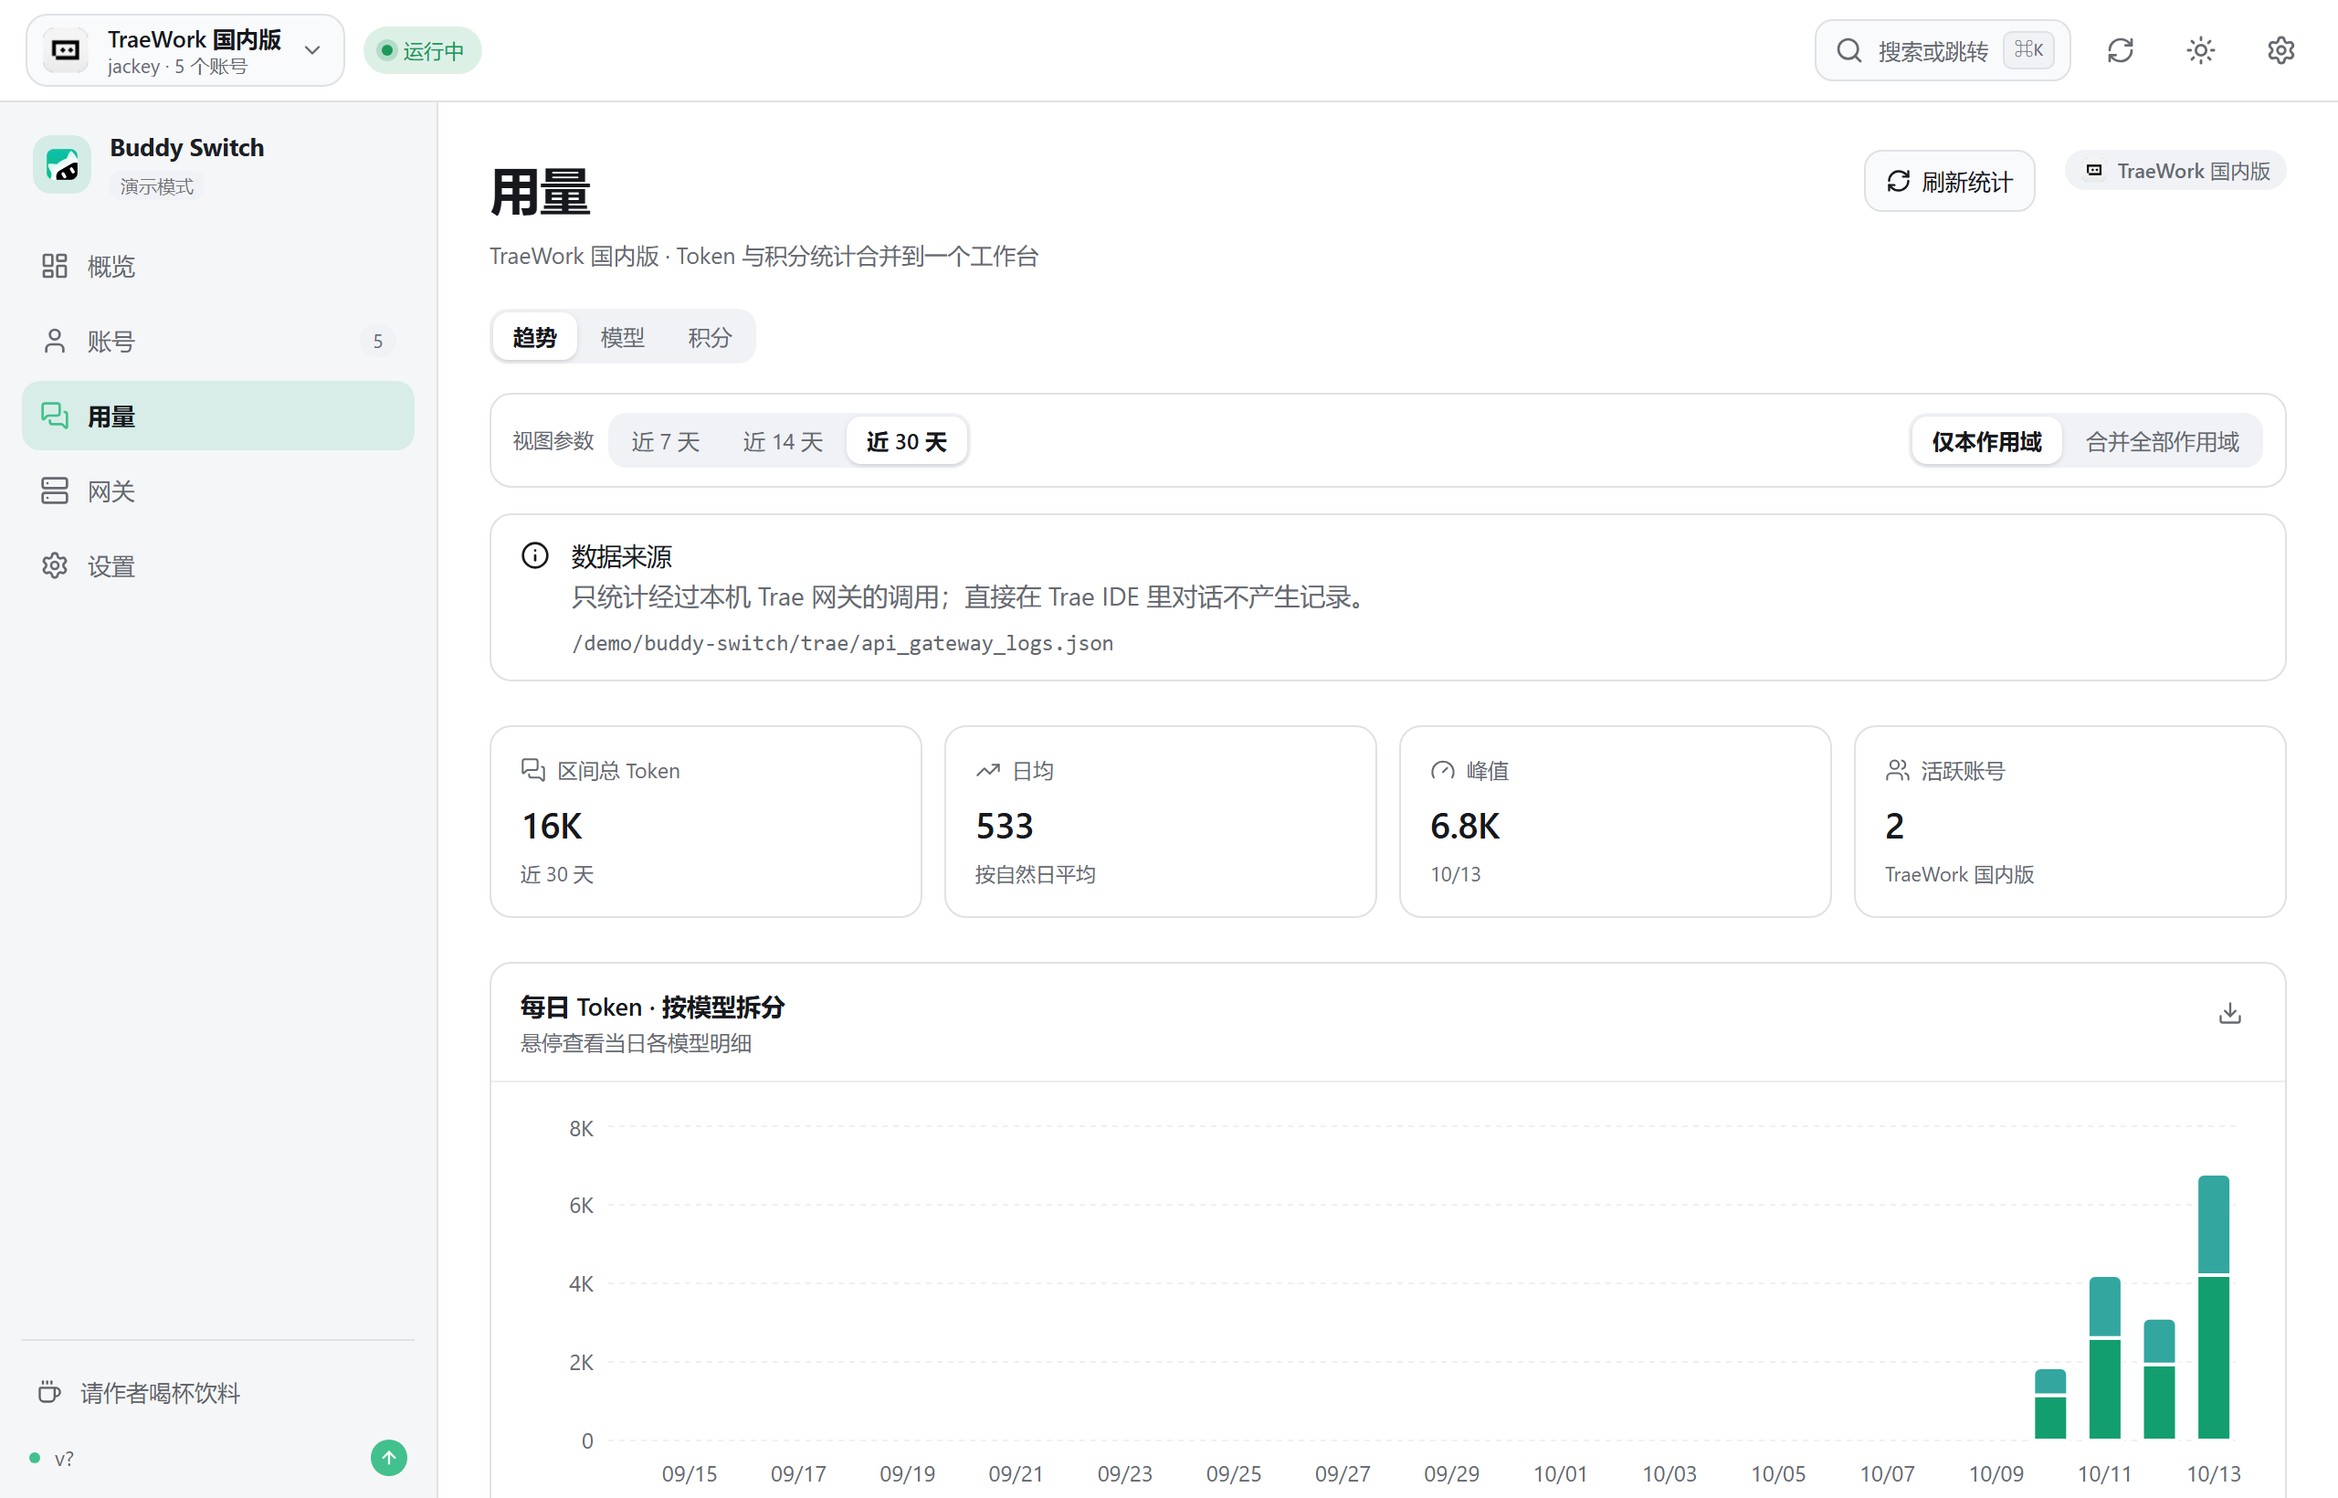
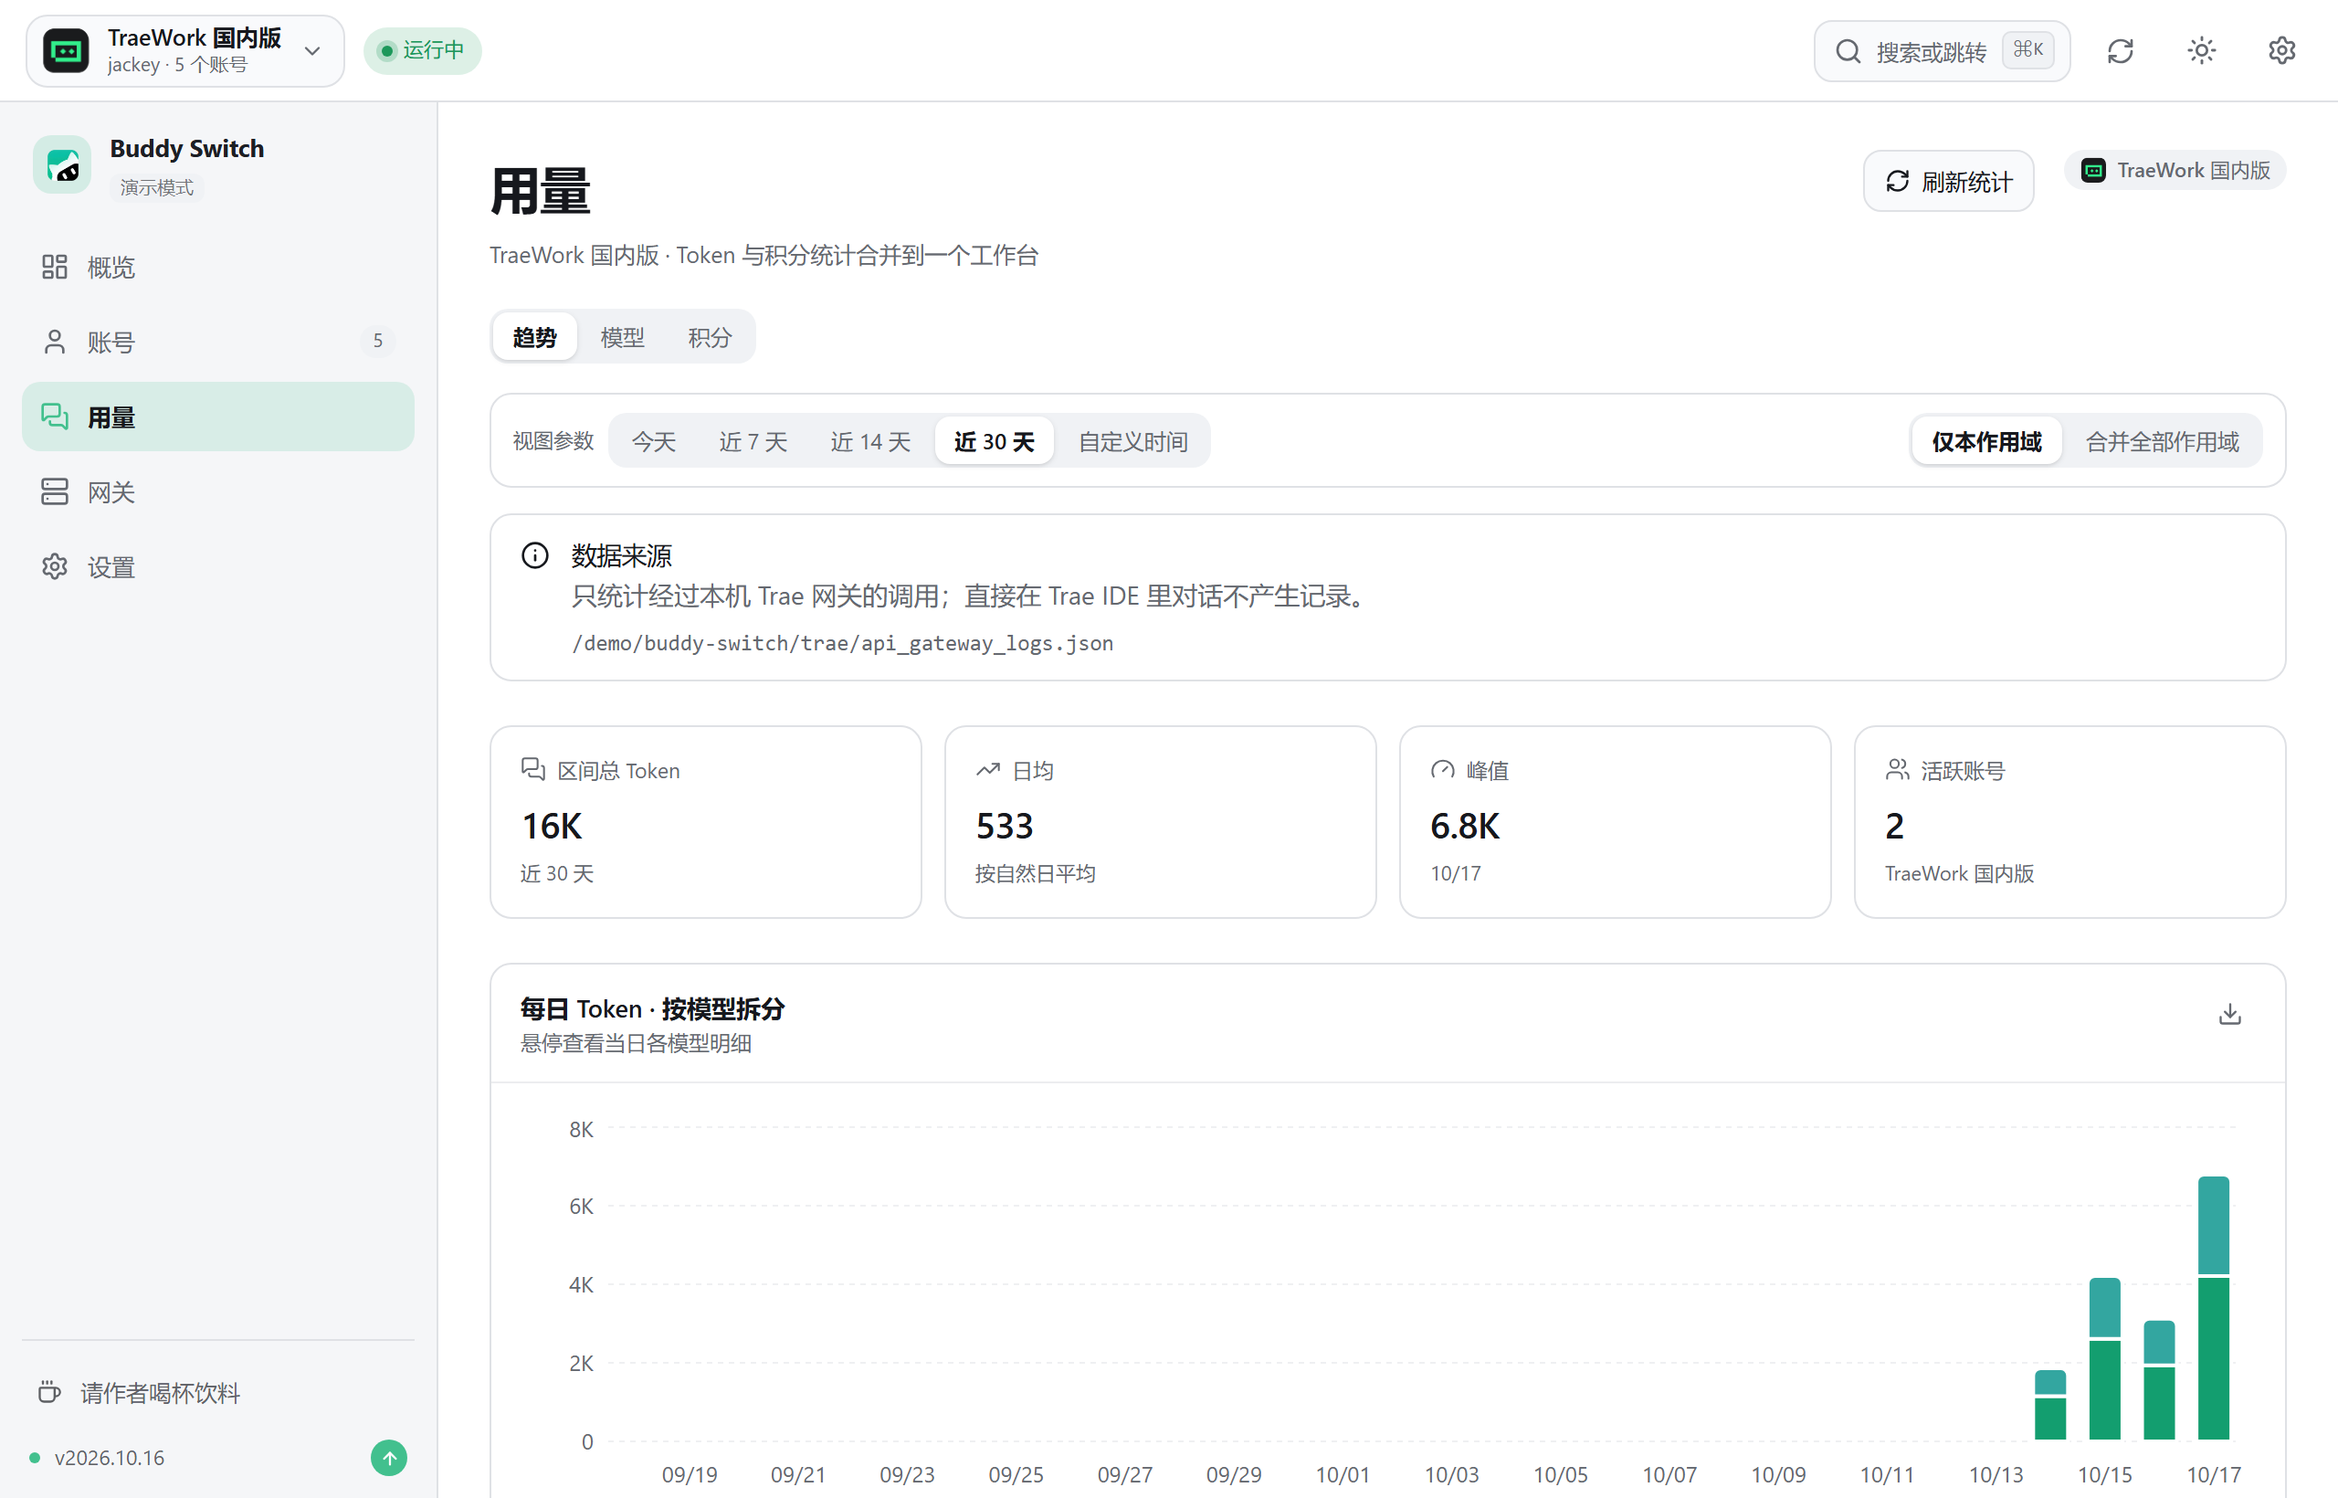
docs(readme): README 截图流水线脚本 + 全站截图重拍（含 Qoder 六张）
新增 `scripts/gen-readme-shots.mjs`：把「路由 → 文件名 → 视口 → 缩放」全部写死，
重跑一次就是一整套同规格的图。此前 20+ 张图靠手点，改版后必然漏拍、且两次截图之间
窗口大小/滚动位置不一致 —— 读者看到的是「同一页两种排版」。

配套改动：
- `src/lib/screenshot-demo.ts` / `use-scope-status.ts` / `App.tsx`：为脚本提供
  稳定的路由与视口入口（截图模式下不依赖真实登录态与轮询）。
- `docs/images/*`：明/暗两套按新规格重拍，并补齐 Qoder 的账号 / 网关 / 概览六张。
- `.gitignore`：忽略脚本的一次性 playwright 安装目录与取景用探针图
  （`.tmp-pcli/` 500+ 文件、`docs/images/.probe/`），不让中间产物进仓库。

diff --git a/src/lib/use-scope-status.ts b/src/lib/use-scope-status.ts
@@ -16,6 +16,12 @@
  *   安装 / 运行态取自 `trae-variant-status` 的同一次探测（`loadTraeVariantStatuses`，
  *   即侧栏运行点的数据源），「当前登录」与「账号数」在其上各取一次。
  *   快照走 `useCachedResource` + **本 hook 自己的 60 秒轮询**（见 [`TRAE_SCOPE_STATUS_POLL_MS`]）。
+ * - **Qoder 侧**（`qoder-cn` / `qoder-global`）：同样是一次聚合快照 ——
+ *   `get_qoder_accounts`（账号数 / 当前登录 / 需处理）+ `qoder_program_status`
+ *   （两处程序位的安装与运行态），**与 Trae 侧同一节奏**。
+ *   ⚠ 2026-10-17 之前 Qoder 两条恒为 `UNKNOWN_STATUS`（当时确实没有数据源）——
+ *   后果是顶栏写着「未检测到 · 0 个账号」，而账号页里明明躺着两条账号。
+ *   「不知道」与「0」必须分开，所以要么取到真数，要么保持未知，不能编。
  *
  * ## 为什么 Trae 侧要在 WorkBuddy 作用域下也探测
  *
@@ -131,8 +137,7 @@ function regionLoginName(
   return null;
 }
 
-async function loadTraeScopeSnapshot(): Promise<TraeScopeSnapshot> {
-  const statuses = await loadTraeVariantStatuses();
+async function loadTraeScopeSnapshot(): Promise<TraeScopeSnapshot> {  const statuses = await loadTraeVariantStatuses();
   // 三次请求互不依赖：登录态按程序位、账号数按区域（每区域恰一个合并版程序位，
   // issue #28 收敛 ⇒ 国内取 `trae_merged`、国际取 `global_trae_merged`）。
   const [logins, cnAccounts, globalAccounts] = await Promise.all([
@@ -157,6 +162,63 @@ async function loadTraeScopeSnapshot(): Promise<TraeScopeSnapshot> {
     cn: build("cn", cnAccounts?.total ?? 0),
     global: build("global", globalAccounts?.total ?? 0),
   };
+}
+
+/** Qoder 聚合快照的缓存键（与 Trae 侧分开：两者取数路径完全不同）。 */
+const QODER_SCOPE_STATUS_KEY = "qoder:scope-status";
+
+/**
+ * Qoder 快照的新鲜窗口：**50 秒**，与 Trae 侧同值。
+ *
+ * 轮询**共用** [`TRAE_SCOPE_STATUS_POLL_MS`]（同一个 60 秒定时器里两条都 revalidate）——
+ * 两条快照同一档期，分开起定时器只会让同一秒打两轮请求。
+ */
+const QODER_SCOPE_STATUS_FRESH_MS = TRAE_SCOPE_STATUS_FRESH_MS;
+
+interface QoderScopeSnapshot {
+  cn: ScopeStatus;
+  global: ScopeStatus;
+}
+
+/**
+ * Qoder 两个区域的状态快照。
+ *
+ * 两个事实源在**同一次**快照里取齐：
+ * - `get_qoder_accounts(scope)` → 账号数 / 当前登录 uid / 是否有可用凭据；
+ * - `qoder_program_status(scope)` → 桌面版与 CLI 两处程序位的 `state` 与 `running`。
+ *
+ * ⚠ **安装判据用 `state`，不用「有账号」**：Qoder 允许先粘 PAT 再装客户端
+ * （`state = missing` 而账号库非空）—— 那时说「已安装」是假的。
+ * `empty` / `ready` 都表示「客户端在、只是登录态空/有」，都算装过。
+ */
+async function loadQoderScopeSnapshot(): Promise<QoderScopeSnapshot> {
+  const build = async (scope: Scope): Promise<ScopeStatus> => {
+    const [view, programs] = await Promise.all([
+      api.getQoderAccounts(scope).catch(() => null),
+      api.qoderProgramStatus(scope).catch(() => null),
+    ]);
+    const accounts = view?.accounts ?? [];
+    const list = programs?.programs ?? [];
+    const currentUid = list.find((program) => program.currentUid)?.currentUid ?? null;
+    const logged = currentUid ? accounts.find((account) => account.uid === currentUid) : undefined;
+    const now = Date.now();
+    return {
+      installed: list.some(
+        (program) => program.running || program.state === "ready" || program.state === "empty",
+      ),
+      running: list.some((program) => program.running),
+      loggedInName: logged ? (logged.nickname ?? logged.name) : null,
+      accountCount: accounts.length,
+      // 与 WorkBuddy 侧同一口径（过期 or 无可用凭据 ⇒ 需处理）；Qoder 没有「需重登」概念。
+      attentionCount: accounts.filter(
+        (account) =>
+          !account.hasCredential ||
+          (account.expiresAt != null && account.expiresAt <= now),
+      ).length,
+    };
+  };
+  const [cn, global] = await Promise.all([build("qoder-cn"), build("qoder-global")]);
+  return { cn, global };
 }
 
 /** WorkBuddy 一个区域的切片 → 状态（登录名优先昵称、其次邮箱）。 */
@@ -201,15 +263,19 @@ function workbuddyStatus(status: AppStatus | null, accounts: AccountMeta[]): Sco
 export function useScopeStatus(): {
   statuses: ScopeStatusMap;
   /**
-   * 强制刷新 Trae 侧快照；**返回刷新后的错误文案**（`null` = 成功）。
+   * 强制刷新**非 WorkBuddy** 作用域的聚合快照（Trae / Qoder）；**返回错误文案**（`null` = 成功）。
+   *
+   * WorkBuddy 的刷新不在这里：它走账号 store 自己的命令（见 `Layout.refreshCurrentScope`）。
+   * ⚠ 两个产品线的快照**来自不同键**，所以刷新也必须按产品分派 —— 用同一个函数刷另一条，
+   * 只会让顶栏那个「已刷新」toast 说谎。
    *
    * ⚠ 为什么返回值不是 `void`：`useCachedResource.refresh` 吞掉异常（失败写进
    * 快照的 `error`，见 `stores/resources.ts` 的 `load`）⇒ 顶栏刷新若只看
-   * 「await 有没有抛」，Trae 的失败会被当成成功去报「已刷新」。这里在刷新结束
+   * 「await 有没有抛」，Trae / Qoder 的失败会被当成成功去报「已刷新」。这里在刷新结束
    * 后直接读 store 的**最新** entry（不受 React 渲染时序影响），把结果转成
    * 显式值给调用方。
    */
-  refreshTrae: () => Promise<string | null>;
+  refreshProduct: (product: "trae" | "qoder") => Promise<string | null>;
 } {
   const cnStatus = useAccountsStore((s) => s.status);
   const cnAccounts = useAccountsStore((s) => s.accounts);
@@ -222,15 +288,26 @@ export function useScopeStatus(): {
     { freshMs: TRAE_SCOPE_STATUS_FRESH_MS },
   );
 
+  const qoder = useCachedResource<QoderScopeSnapshot>(
+    QODER_SCOPE_STATUS_KEY,
+    loadQoderScopeSnapshot,
+    { freshMs: QODER_SCOPE_STATUS_FRESH_MS },
+  );
+
   const visible = useDocumentVisible();
   // 取出函数本体再进依赖：`trae` 对象每次渲染都是新的，直接用它会每帧重建定时器。
   const revalidateTrae = trae.revalidate;
+  const revalidateQoder = qoder.revalidate;
 
   useEffect(() => {
     if (!visible) return;
-    const timer = window.setInterval(() => void revalidateTrae(), TRAE_SCOPE_STATUS_POLL_MS);
+    const timer = window.setInterval(() => {
+      void revalidateTrae();
+      // 两条快照同一个周期触发：分开起定时器只会在同一秒打两轮请求。
+      void revalidateQoder();
+    }, TRAE_SCOPE_STATUS_POLL_MS);
     return () => window.clearInterval(timer);
-  }, [visible, revalidateTrae]);
+  }, [visible, revalidateTrae, revalidateQoder]);
 
   const statuses = useMemo<ScopeStatusMap>(
     () => ({
@@ -238,21 +315,22 @@ export function useScopeStatus(): {
       "wb-global": workbuddyStatus(globalStatus, globalAccounts),
       "trae-cn": trae.data?.cn ?? UNKNOWN_STATUS,
       "trae-global": trae.data?.global ?? UNKNOWN_STATUS,
-      /* ⚠ Qoder 侧**尚无运行状态数据源**（客户端探测与账号库计数都还没接）。
-         这里给 `UNKNOWN_STATUS` 而不是编一个「未运行」—— 后者会被读成
-         「装了但没开」，而事实是我们还不知道。 */
-      "qoder-cn": UNKNOWN_STATUS,
-      "qoder-global": UNKNOWN_STATUS,
+      "qoder-cn": qoder.data?.cn ?? UNKNOWN_STATUS,
+      "qoder-global": qoder.data?.global ?? UNKNOWN_STATUS,
     }),
-    [cnStatus, cnAccounts, globalStatus, globalAccounts, trae.data],
+    [cnStatus, cnAccounts, globalStatus, globalAccounts, trae.data, qoder.data],
   );
 
   // 见返回类型处的说明：refresh 不抛错 ⇒ 刷新完成后从 store 读最新 entry 判成败。
-  const refreshTrae = useCallback(async (): Promise<string | null> => {
-    await trae.refresh();
-    const entry = useResourceStore.getState().entries[TRAE_SCOPE_STATUS_KEY];
-    return entry?.error == null ? null : api.asError(entry.error);
-  }, [trae.refresh]);
+  const refreshProduct = useCallback(
+    async (product: "trae" | "qoder"): Promise<string | null> => {
+      const key = product === "trae" ? TRAE_SCOPE_STATUS_KEY : QODER_SCOPE_STATUS_KEY;
+      await (product === "trae" ? trae.refresh() : qoder.refresh());
+      const entry = useResourceStore.getState().entries[key];
+      return entry?.error == null ? null : api.asError(entry.error);
+    },
+    [trae.refresh, qoder.refresh],
+  );
 
-  return { statuses, refreshTrae };
+  return { statuses, refreshProduct };
 }

diff --git a/src/App.tsx b/src/App.tsx
@@ -534,8 +534,8 @@ function Layout() {
   const [traeRegion] = useTraeVariant();
   const navRegion = product === "trae" ? traeRegion : wbRegion;
   const scope = scopeOf(product, navRegion);
-  /** 四个作用域的环境状态（顶栏作用域菜单的唯一取数来源）。 */
-  const { statuses, refreshTrae } = useScopeStatus();
+  /** 六个作用域的环境状态（顶栏作用域菜单的唯一取数来源）。 */
+  const { statuses, refreshProduct } = useScopeStatus();
 
   /* P6：命令面板（⌘K）的开关状态。入口有两个 —— 顶栏搜索按钮与全局 ⌘K。
      状态放在 `Layout`（而非 `App`）里，是为了与顶栏入口共享、且都处于 Router 上下文内。 */
@@ -691,7 +691,8 @@ function Layout() {
    *
    * - **WorkBuddy**：走账号 store 自己的命令（`refreshRegionStatus` + `reconcileAccounts`），
    *   与命令面板的「刷新当前作用域」同口径；
-   * - **Trae**：走 `useScopeStatus` 聚合快照的 `refreshTrae`（顶栏状态的数据源）。
+   * - **Trae / Qoder**：走 `useScopeStatus` 聚合快照的 `refreshProduct`（顶栏状态的数据源；
+   *   两条产品线的快照是两个键，所以必须按产品分派）。
    *
    * ★ 返回 Promise 且**自带结果反馈**（原型 `doRefresh` 的「已刷新」toast）：
    * 成功/失败都给出显式提示，不再让请求静默跑完 —— 顶栏按钮的进行中态由它驱动
@@ -706,9 +707,9 @@ function Layout() {
         void store.refreshRegionStatus(navRegion);
         await store.reconcileAccounts(navRegion);
       } else {
-        // Trae 的刷新失败不抛错（写进快照的 `error` 字段）⇒ 用显式结果判成败。
-        const traeError = await refreshTrae();
-        if (traeError) throw new Error(traeError);
+        // Trae / Qoder 的刷新失败不抛错（写进快照的 `error` 字段）⇒ 用显式结果判成败。
+        const aggregateError = await refreshProduct(product);
+        if (aggregateError) throw new Error(aggregateError);
       }
       toast.success(t("topbar.refreshDone"), {
         description: t("topbar.refreshDoneDesc", { scope: scopeLabel(scope, t) }),

diff --git a/src/lib/screenshot-demo.ts b/src/lib/screenshot-demo.ts
@@ -697,7 +697,9 @@ function demoRegionStatus(region: Region): AppStatus {
       : "/demo/WorkBuddy/auth/workbuddy-desktop.info",
     current: { uid: account.uid, nickname: account.nickname, email: account.email },
     appPath: isGlobal ? "/demo/WorkBuddy AI.app" : "/demo/WorkBuddy.app",
-    version: "2026.9.16",
+    /* ⚠ 这是**本应用**的版本号（真机取自 `update::APP_VERSION`），侧栏与设置抽屉都显示它。
+       演示值跟发行线走：截图会被直接放进 README，写着半年前的版本会让人以为项目停更了。 */
+    version: "2026.10.16",
     installed: true,
     regionMismatch: null,
     region,
